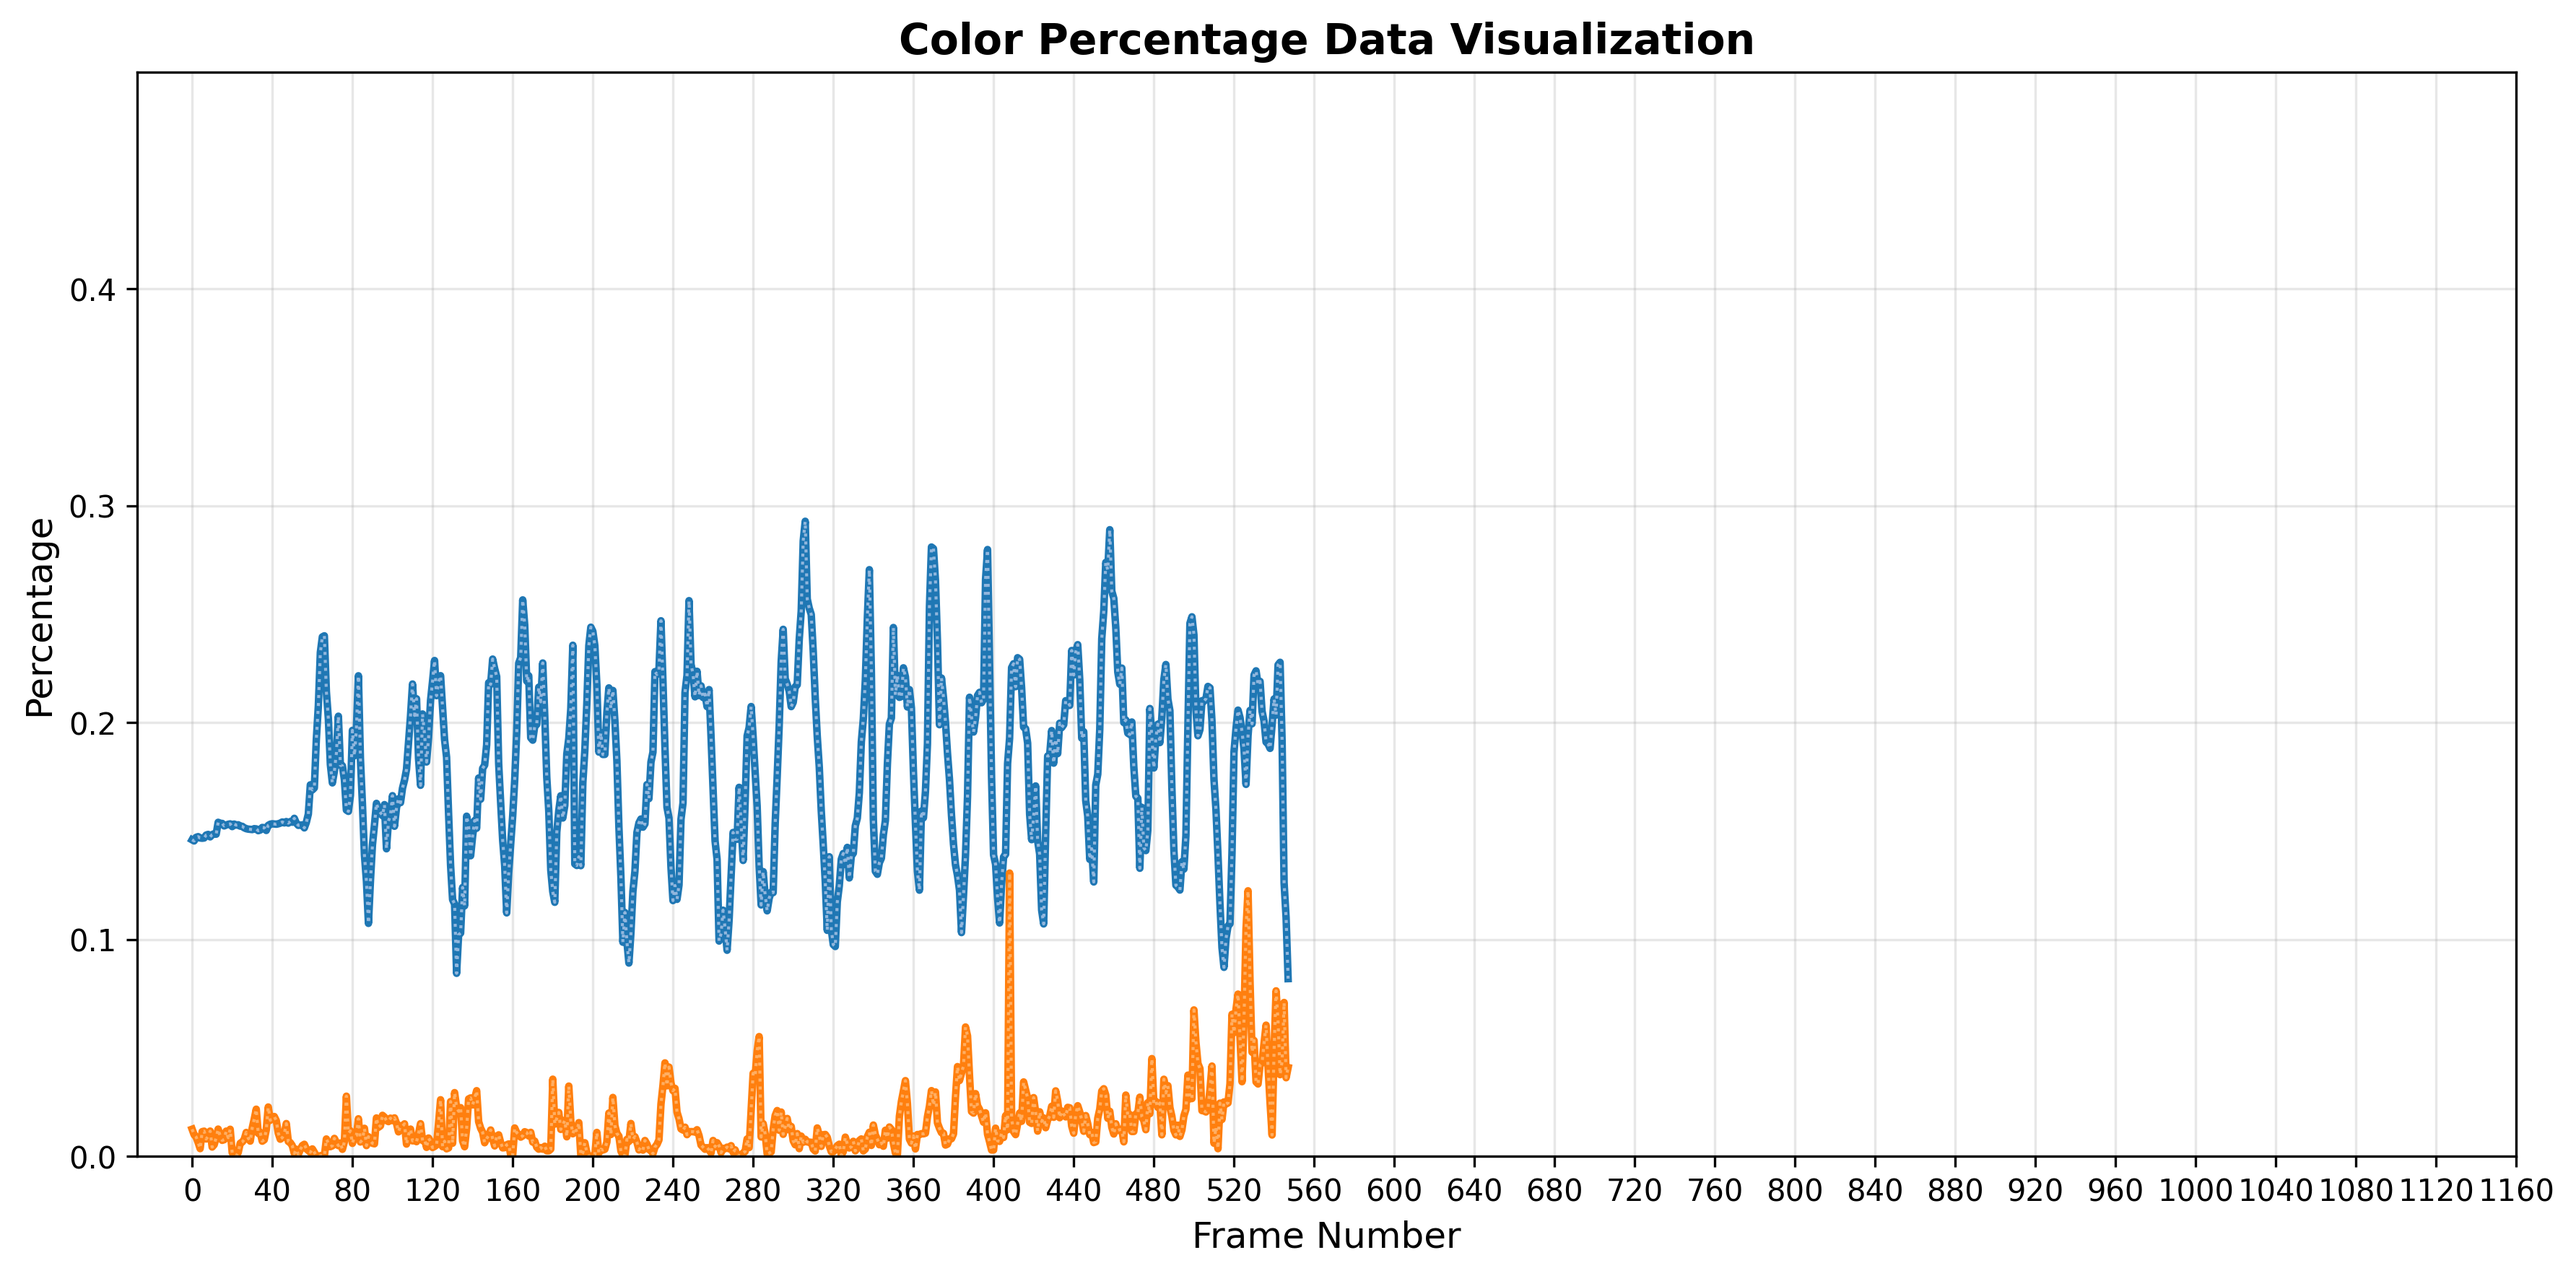
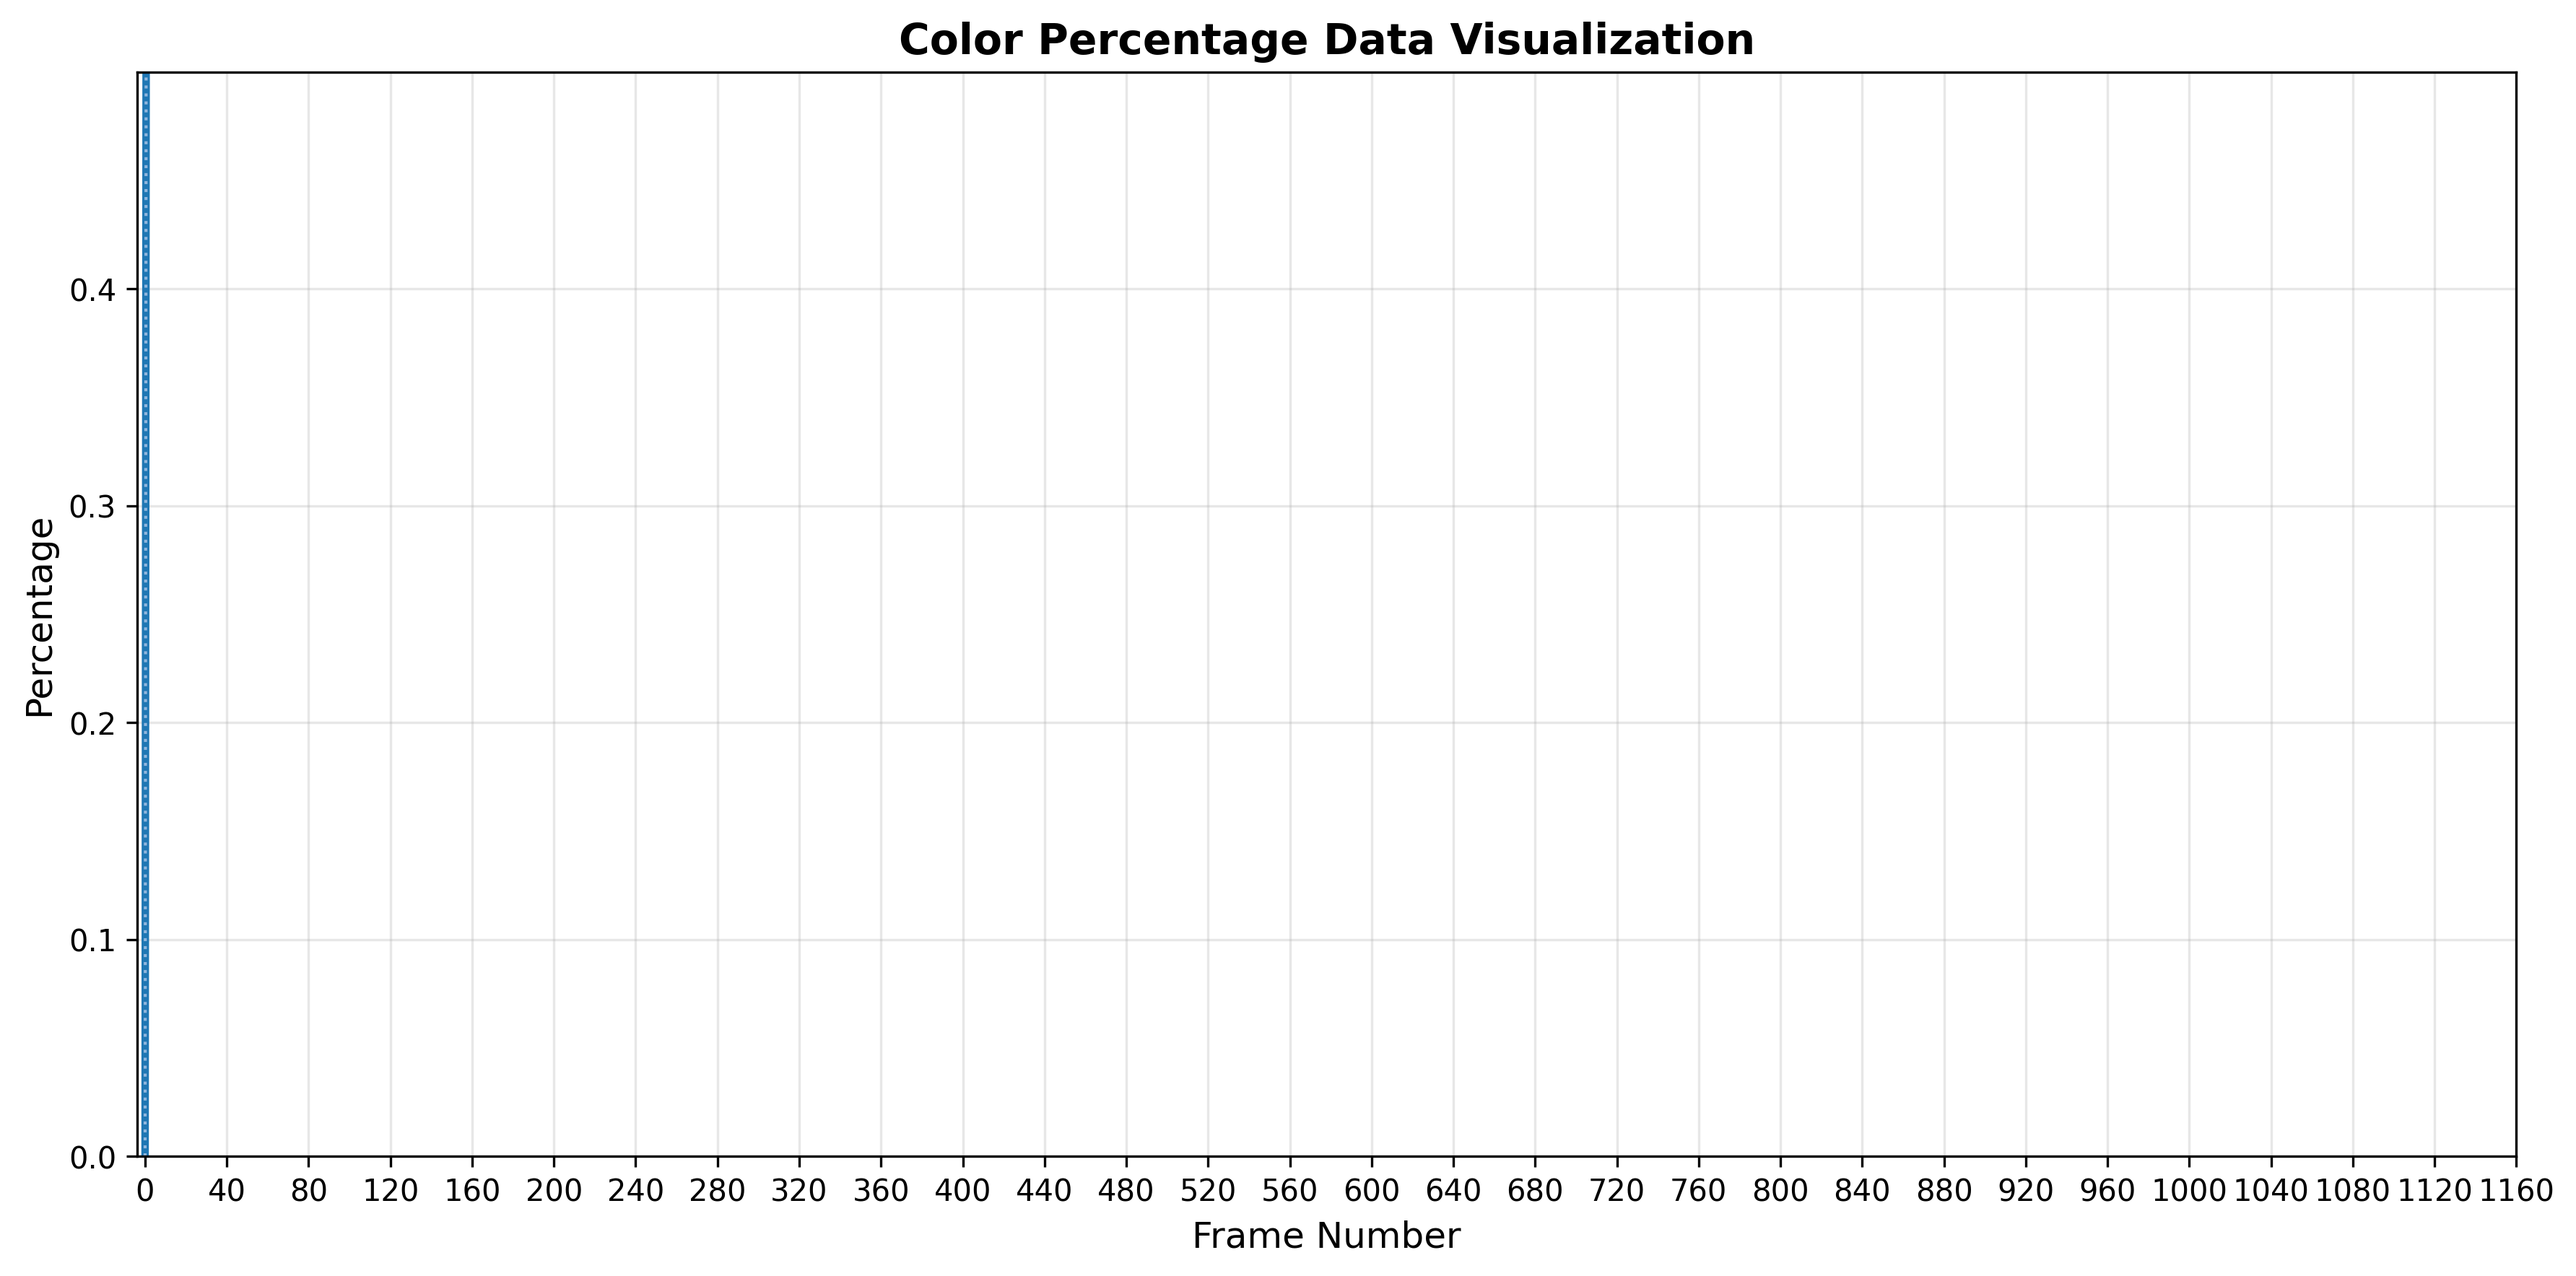
trying to merge my shit again bruh. This has all the adjustments and the code for creating a csv and graph to map the color percentages.

Changed region(s): [[0.0311, 0.4355, 0.9333, 0.9644], [0.0311, 0.2178, 0.0622, 0.3733]]

diff --git a/color_percentages_graphing.py b/color_percentages_graphing.py
@@ -4,7 +4,8 @@ from corner_detection.corner_detection import RobotCornerDetection
 
 def makeGraph():  
     # Read the CSV file
-    df = pd.read_csv("color_output.csv", index_col = 0)
+    # df = pd.read_csv("color_output.csv", index_col = 0)
+    df = pd.read_csv("ColorPercentageData.csv")
 
     # Print diagnostic information
 
